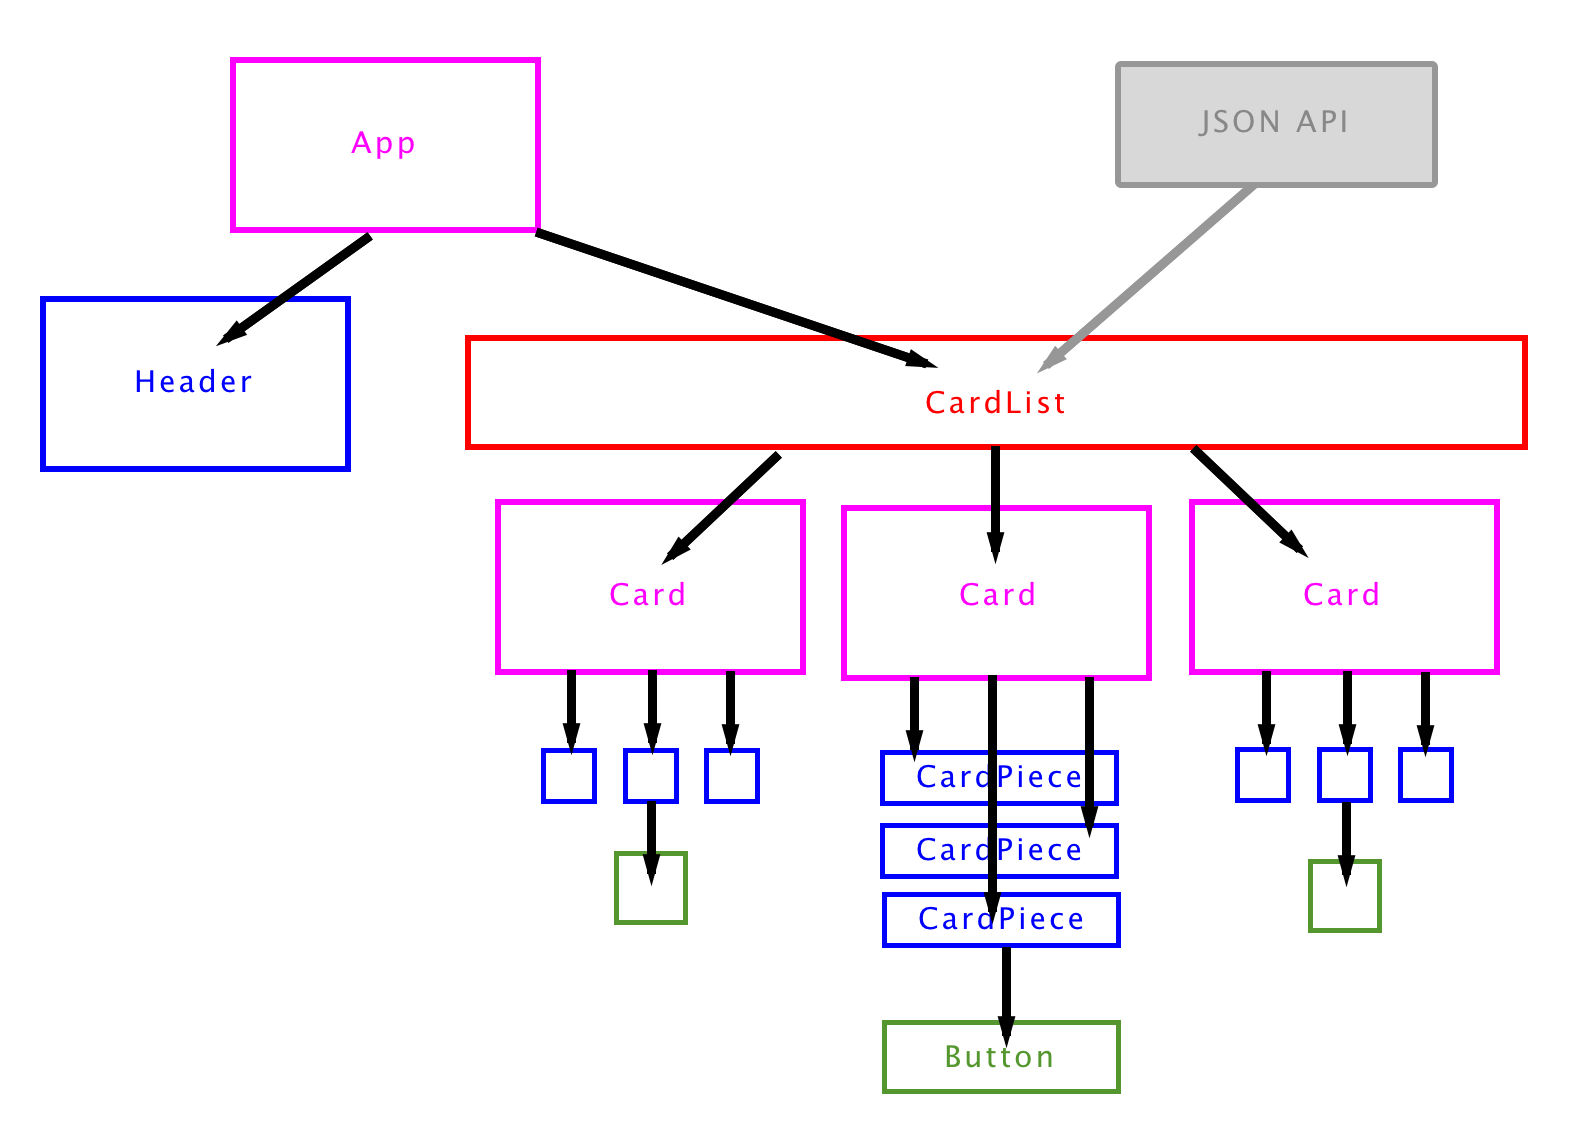
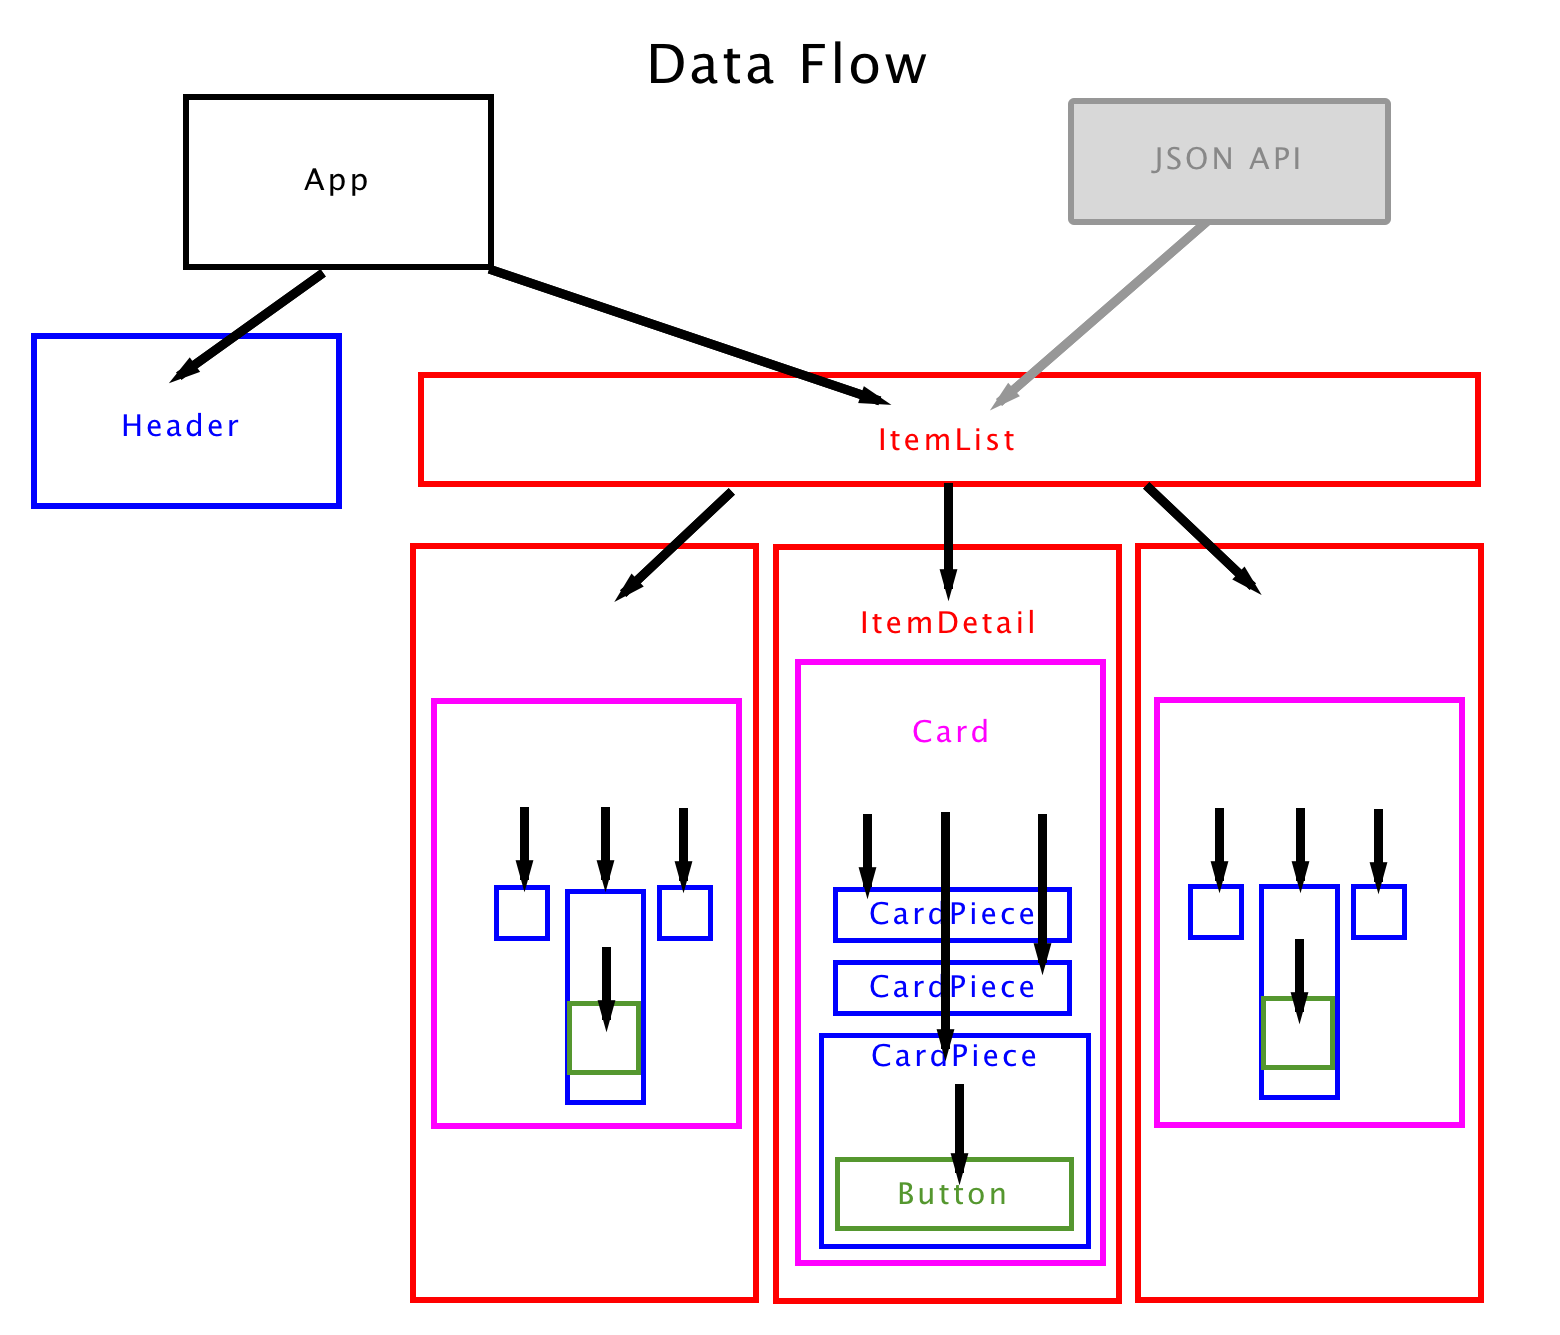
:art: improves wireframe and dataflow diagrams

diff --git a/src/components/ItemDetail.js b/src/components/ItemDetail.js
@@ -1,7 +1,7 @@
 // import libraries
 import React from 'react';
 import { View, Text, Image, StyleSheet } from 'react-native';
-import CardSection from './CardSection'
+import CardPiece from './CardPiece'
 
 // make component
 const ItemDetail = (props) => {
@@ -9,7 +9,7 @@ const ItemDetail = (props) => {
 		<View style={styles.box}>
 			<Text style={styles.titletext}>{props.item.title}</Text>
 			<Text style={styles.smalltext}>{props.item.platform}</Text>
-			<CardSection />
+			<CardPiece />
 		</View>
 	);
 };

diff --git a/src/components/CardPiece.js b/src/components/CardPiece.js
@@ -2,15 +2,15 @@
 import React from 'react';
 import { View, Text, Image } from 'react-native';
 
-const CardSection = () => {
+const CardPiece = () => {
 	return (
 		<View>
 			<Text>
-				Section works
+				Piece works
 			</Text>
 		</View>
 	)
 };
 
-export default CardSection;
+export default CardPiece;
 

diff --git a/readme.md b/readme.md
@@ -2,7 +2,7 @@
 
 ## [Adjectival](https://github.com/Adjectival)
 
-![screenshot](wireframe2.png)
+![screenshot](wireframe3.png)
 ![screenshot](dataflow.png)
 
 ## Function
